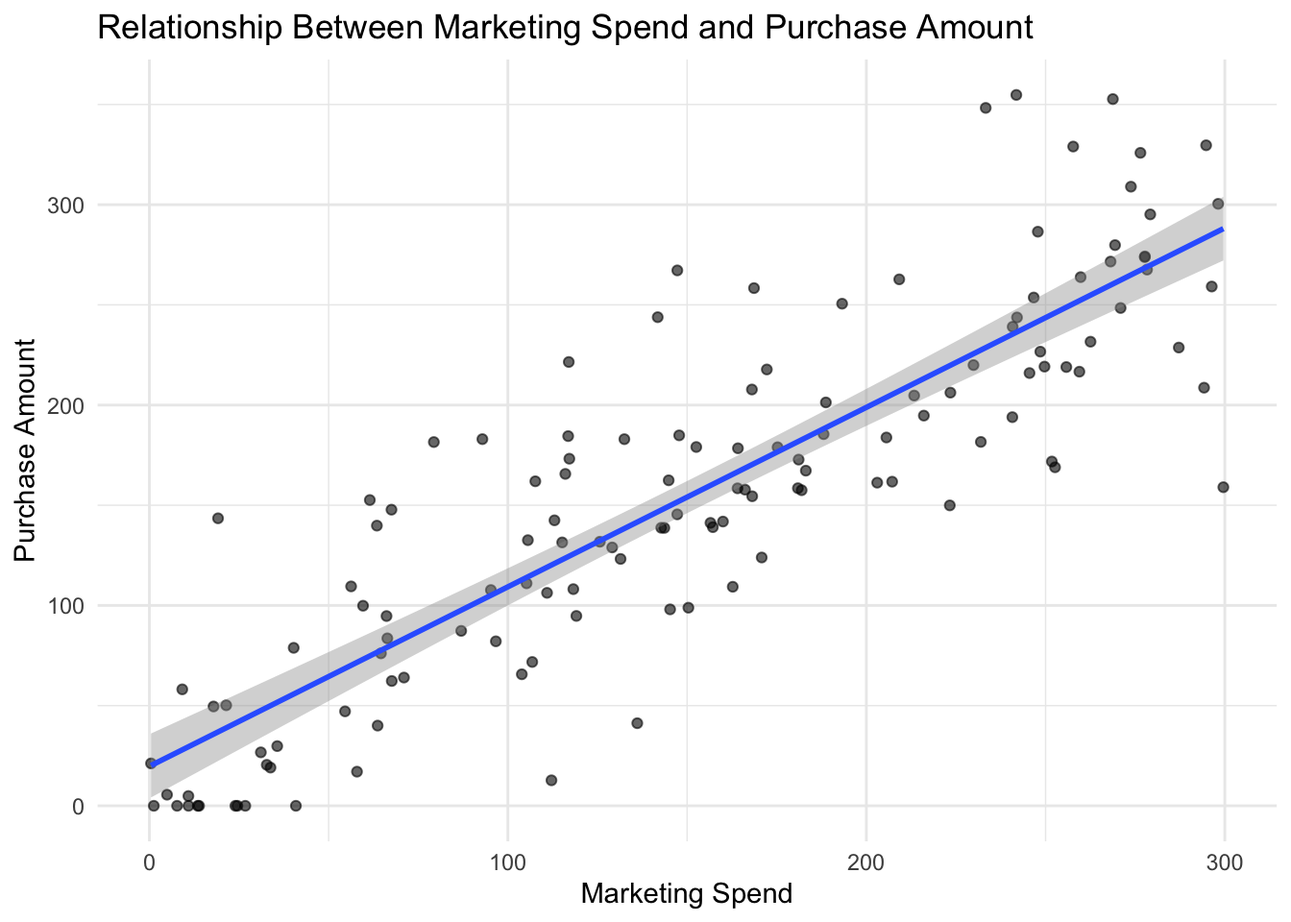
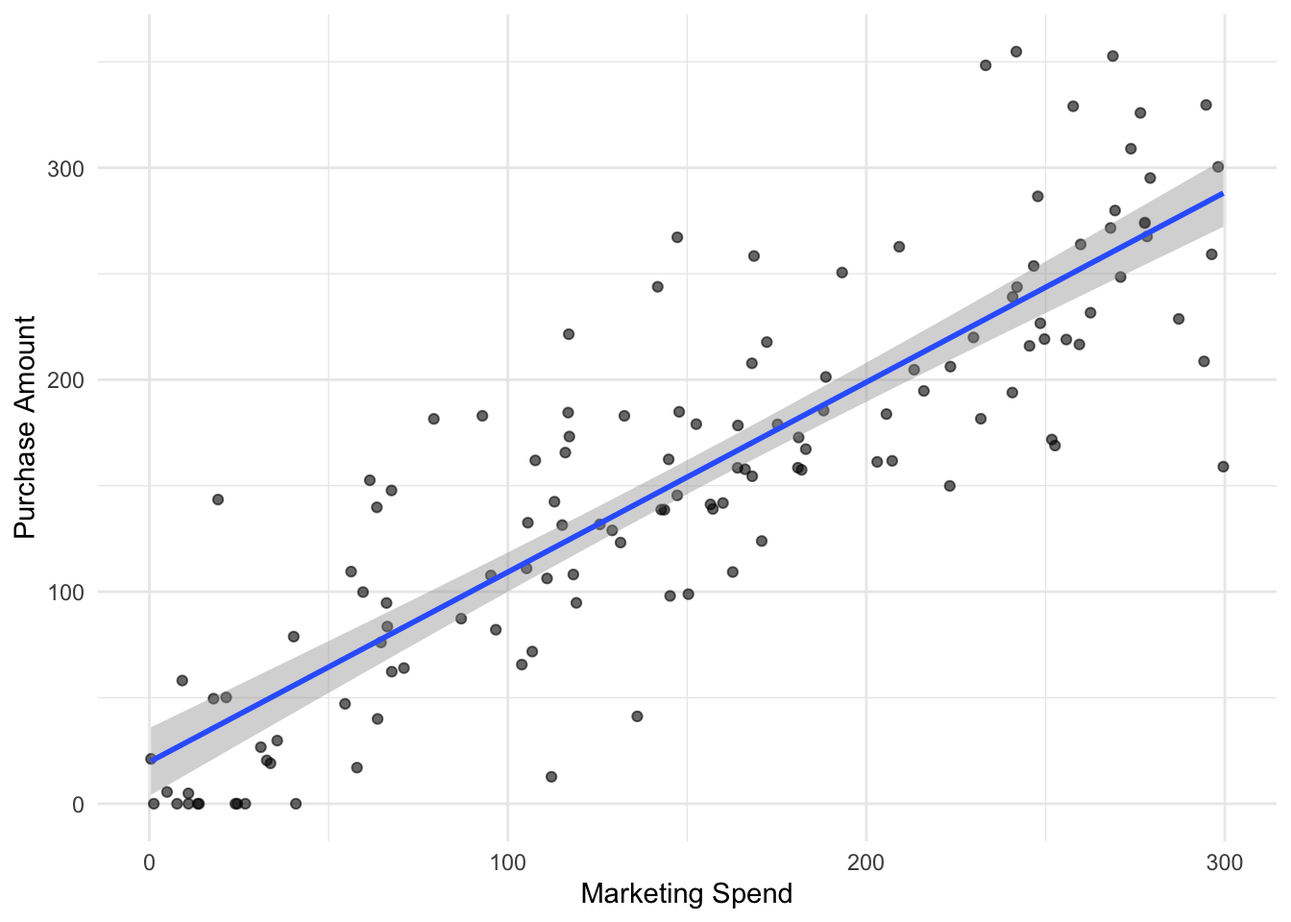
add dataset description and data summary

diff --git a/assignment1_report.html b/assignment1_report.html
@@ -7,7 +7,7 @@
 <meta name="viewport" content="width=device-width, initial-scale=1.0, user-scalable=yes">
 
 <meta name="author" content="Waranya Ratirotjanakul (36851256)">
-<meta name="dcterms.date" content="2026-03-29">
+<meta name="dcterms.date" content="2026-03-30">
 
 <title>Marketing Campaign Analysis</title>
 <style>
@@ -92,7 +92,7 @@ pre > code.sourceCode > span > a:first-child::before { text-decoration: underlin
   <li><a href="#dataset-description" id="toc-dataset-description" class="nav-link" data-scroll-target="#dataset-description">Dataset Description</a>
   <ul class="collapse">
   <li><a href="#data-detail" id="toc-data-detail" class="nav-link" data-scroll-target="#data-detail">Data detail</a></li>
-  <li><a href="#summary-table" id="toc-summary-table" class="nav-link" data-scroll-target="#summary-table">Summary table</a></li>
+  <li><a href="#data-summary" id="toc-data-summary" class="nav-link" data-scroll-target="#data-summary">Data summary</a></li>
   </ul></li>
   <li><a href="#results" id="toc-results" class="nav-link" data-scroll-target="#results">Results</a></li>
   </ul>
@@ -119,7 +119,7 @@ pre > code.sourceCode > span > a:first-child::before { text-decoration: underlin
     <div>
     <div class="quarto-title-meta-heading">Published</div>
     <div class="quarto-title-meta-contents">
-      <p class="date">March 29, 2026</p>
+      <p class="date">March 30, 2026</p>
     </div>
   </div>
   
@@ -141,7 +141,7 @@ pre > code.sourceCode > span > a:first-child::before { text-decoration: underlin
 </section>
 <section id="dataset-introduction" class="level1">
 <h1>Dataset Introduction</h1>
-<p>The <code>singup_date</code> variable was converted from character to date format using <code>parse_date_time()</code> function across the dataset. One additional missing value was detected. The <code>is.na()</code> function was used to inspect missing values and compare the raw and cleaned datasets. As a result, the new missing value was identified in row 145, where the original value was recorded as the character “N/A”. This indicates that the value represented a missing value but was previously stored as text.</p>
+<p>The marketing campaign dataset records customer interactions and purchasing behaviour during an online retail campaign. The dataset includes information on customer ID, customer registration date, marketing spending, number of visits, purchase amount, customer segment classification, and notes describing customer contact status (e.g., no response, contacted, and returned). Before analysis, the dataset was cleaned to ensure data accuracy and consistency. The <code>signup_date</code> variable was converted from character format to date-time format using <code>parse_date_time()</code> function to standardize date representation across the dataset. Missing values were inspected and verified to ensure data quality prior to analysis.</p>
 <div class="cell">
 <div class="code-copy-outer-scaffold"><div class="sourceCode cell-code" id="cb1"><pre class="sourceCode r code-with-copy"><code class="sourceCode r"><span id="cb1-1"><a href="#cb1-1" aria-hidden="true" tabindex="-1"></a><span class="co"># load dataset</span></span>
 <span id="cb1-2"><a href="#cb1-2" aria-hidden="true" tabindex="-1"></a>mkt_campaign_raw <span class="ot">&lt;-</span> <span class="fu">read_csv</span>(<span class="st">"data/36851256_Waranya Ratirotjanakul.csv"</span>)</span></code></pre></div><button title="Copy to Clipboard" class="code-copy-button"><i class="bi"></i></button></div>
@@ -168,7 +168,7 @@ $ purchase_amount &lt;dbl&gt; 204.74, 263.84, 107.68, 58.12, 71.78, 172.77, 219.
 $ segment         &lt;chr&gt; "SMB", "Consumer", "Consumer", "Consumer", "Consumer",…
 $ notes           &lt;chr&gt; NA, NA, NA, "contacted", NA, NA, "N/A", NA, NA, NA, NA…</code></pre>
 </div>
-<div class="code-copy-outer-scaffold"><div class="sourceCode cell-code" id="cb5"><pre class="sourceCode r code-with-copy"><code class="sourceCode r"><span id="cb5-1"><a href="#cb5-1" aria-hidden="true" tabindex="-1"></a><span class="co"># convert chr to date format</span></span>
+<div class="code-copy-outer-scaffold"><div class="sourceCode cell-code" id="cb5"><pre class="sourceCode r code-with-copy"><code class="sourceCode r"><span id="cb5-1"><a href="#cb5-1" aria-hidden="true" tabindex="-1"></a><span class="co"># convert character to date-time format</span></span>
 <span id="cb5-2"><a href="#cb5-2" aria-hidden="true" tabindex="-1"></a>mkt_campaign_clean <span class="ot">&lt;-</span> mkt_campaign_raw <span class="sc">|&gt;</span></span>
 <span id="cb5-3"><a href="#cb5-3" aria-hidden="true" tabindex="-1"></a>    <span class="fu">mutate</span>(<span class="at">signup_date =</span> <span class="fu">parse_date_time</span>(signup_date,</span>
 <span id="cb5-4"><a href="#cb5-4" aria-hidden="true" tabindex="-1"></a>    <span class="at">orders =</span> <span class="fu">c</span>(<span class="st">"ymd"</span>, <span class="st">"dmy"</span>, <span class="st">"mdy"</span>)</span>
@@ -180,9 +180,21 @@ $ notes           &lt;chr&gt; NA, NA, NA, "contacted", NA, NA, "N/A", NA, NA, NA
 Caused by warning:
 !  1 failed to parse.</code></pre>
 </div>
-<div class="code-copy-outer-scaffold"><div class="sourceCode cell-code" id="cb7"><pre class="sourceCode r code-with-copy"><code class="sourceCode r"><span id="cb7-1"><a href="#cb7-1" aria-hidden="true" tabindex="-1"></a><span class="co"># check missing value</span></span>
-<span id="cb7-2"><a href="#cb7-2" aria-hidden="true" tabindex="-1"></a>mkt_campaign_clean <span class="sc">|&gt;</span></span>
-<span id="cb7-3"><a href="#cb7-3" aria-hidden="true" tabindex="-1"></a>  <span class="fu">filter</span>(<span class="fu">is.na</span>(signup_date))</span></code></pre></div><button title="Copy to Clipboard" class="code-copy-button"><i class="bi"></i></button></div>
+<div class="code-copy-outer-scaffold"><div class="sourceCode cell-code" id="cb7"><pre class="sourceCode r code-with-copy"><code class="sourceCode r"><span id="cb7-1"><a href="#cb7-1" aria-hidden="true" tabindex="-1"></a><span class="fu">glimpse</span>(mkt_campaign_clean)</span></code></pre></div><button title="Copy to Clipboard" class="code-copy-button"><i class="bi"></i></button></div>
+<div class="cell-output cell-output-stdout">
+<pre><code>Rows: 150
+Columns: 7
+$ customer_id     &lt;chr&gt; "36851256_c0001", "36851256_c0002", "36851256_c0003", …
+$ signup_date     &lt;dttm&gt; 2025-03-16, 2025-02-20, 2025-01-30, 2025-09-24, 2025-…
+$ marketing_spend &lt;dbl&gt; 213.34, 259.78, 95.26, 9.17, 106.80, 181.11, 249.70, 3…
+$ visits          &lt;dbl&gt; 7, 10, 2, 2, 4, 6, 10, 2, 7, 10, 7, 8, 4, 3, 8, 1, 9, …
+$ purchase_amount &lt;dbl&gt; 204.74, 263.84, 107.68, 58.12, 71.78, 172.77, 219.18, …
+$ segment         &lt;chr&gt; "SMB", "Consumer", "Consumer", "Consumer", "Consumer",…
+$ notes           &lt;chr&gt; NA, NA, NA, "contacted", NA, NA, "N/A", NA, NA, NA, NA…</code></pre>
+</div>
+<div class="code-copy-outer-scaffold"><div class="sourceCode cell-code" id="cb9"><pre class="sourceCode r code-with-copy"><code class="sourceCode r"><span id="cb9-1"><a href="#cb9-1" aria-hidden="true" tabindex="-1"></a><span class="co"># check missing value</span></span>
+<span id="cb9-2"><a href="#cb9-2" aria-hidden="true" tabindex="-1"></a>mkt_campaign_clean <span class="sc">|&gt;</span></span>
+<span id="cb9-3"><a href="#cb9-3" aria-hidden="true" tabindex="-1"></a>  <span class="fu">filter</span>(<span class="fu">is.na</span>(signup_date))</span></code></pre></div><button title="Copy to Clipboard" class="code-copy-button"><i class="bi"></i></button></div>
 <div class="cell-output cell-output-stdout">
 <pre><code># A tibble: 9 × 7
   customer_id signup_date marketing_spend visits purchase_amount segment   
@@ -198,8 +210,8 @@ Caused by warning:
 9 36851256_c… NA                    136.       5            41.2 Consumer  
 # ℹ 1 more variable: notes &lt;chr&gt;</code></pre>
 </div>
-<div class="code-copy-outer-scaffold"><div class="sourceCode cell-code" id="cb9"><pre class="sourceCode r code-with-copy"><code class="sourceCode r"><span id="cb9-1"><a href="#cb9-1" aria-hidden="true" tabindex="-1"></a>mkt_campaign_raw <span class="sc">|&gt;</span></span>
-<span id="cb9-2"><a href="#cb9-2" aria-hidden="true" tabindex="-1"></a>  <span class="fu">filter</span>(<span class="fu">is.na</span>(signup_date))</span></code></pre></div><button title="Copy to Clipboard" class="code-copy-button"><i class="bi"></i></button></div>
+<div class="code-copy-outer-scaffold"><div class="sourceCode cell-code" id="cb11"><pre class="sourceCode r code-with-copy"><code class="sourceCode r"><span id="cb11-1"><a href="#cb11-1" aria-hidden="true" tabindex="-1"></a>mkt_campaign_raw <span class="sc">|&gt;</span></span>
+<span id="cb11-2"><a href="#cb11-2" aria-hidden="true" tabindex="-1"></a>  <span class="fu">filter</span>(<span class="fu">is.na</span>(signup_date))</span></code></pre></div><button title="Copy to Clipboard" class="code-copy-button"><i class="bi"></i></button></div>
 <div class="cell-output cell-output-stdout">
 <pre><code># A tibble: 8 × 7
   customer_id   signup_date marketing_spend visits purchase_amount segment notes
@@ -219,29 +231,90 @@ Caused by warning:
 <h1>Dataset Description</h1>
 <section id="data-detail" class="level2">
 <h2 class="anchored" data-anchor-id="data-detail">Data detail</h2>
-<p>The marketing campaign dataset contains 150 observations and 7 variables. The dataset includes both numberic and categorical variables. Numeric variables include <code>marketing_spnd</code> and <code>purchase_amount</code>,, while categoric variables include customer <code>segment</code>.</p>
+<p>The marketing campaign dataset contains 150 observations and 7 variables. The dataset includes numberic, categorical, character, and date-time variables. Numeric variables include <code>marketing_spend</code>, <code>visit</code>, and <code>purchase_amount</code>, while categoric variables includes customer <code>segment</code>. The variables <code>customer_id</code> and <code>notes</code> are stored as character data, and <code>signup_date</code> is recorded as a date-time variable.</p>
 </section>
-<section id="summary-table" class="level2">
-<h2 class="anchored" data-anchor-id="summary-table">Summary table</h2>
+<section id="data-summary" class="level2">
+<h2 class="anchored" data-anchor-id="data-summary">Data summary</h2>
+<p>The scatter plot shows a positive relationship between marketing spend and purchase amount, indicating that customers who receive higher marketing investment tend to generate higher purchase values. However, some variation is observed across customers, suggesting that additional factors may also influence purchasing behaviour.</p>
 <div class="cell">
-<div class="code-copy-outer-scaffold"><div class="sourceCode cell-code" id="cb11"><pre class="sourceCode r code-with-copy"><code class="sourceCode r"><span id="cb11-1"><a href="#cb11-1" aria-hidden="true" tabindex="-1"></a><span class="co"># group dataset by segment and summarise</span></span>
-<span id="cb11-2"><a href="#cb11-2" aria-hidden="true" tabindex="-1"></a>segment_summary <span class="ot">&lt;-</span> mkt_campaign_clean <span class="sc">|&gt;</span></span>
-<span id="cb11-3"><a href="#cb11-3" aria-hidden="true" tabindex="-1"></a>    <span class="fu">group_by</span>(segment) <span class="sc">|&gt;</span></span>
-<span id="cb11-4"><a href="#cb11-4" aria-hidden="true" tabindex="-1"></a>    <span class="fu">summarise</span>(</span>
-<span id="cb11-5"><a href="#cb11-5" aria-hidden="true" tabindex="-1"></a>        <span class="at">avg_marketing_spend =</span> <span class="fu">mean</span>(marketing_spend, <span class="at">na.rm =</span> <span class="cn">TRUE</span>),</span>
-<span id="cb11-6"><a href="#cb11-6" aria-hidden="true" tabindex="-1"></a>        <span class="at">avg_visits =</span> <span class="fu">mean</span>(visits, <span class="at">na.rm =</span> <span class="cn">TRUE</span>),</span>
-<span id="cb11-7"><a href="#cb11-7" aria-hidden="true" tabindex="-1"></a>        <span class="at">avg_purchase_amount =</span> <span class="fu">mean</span>(purchase_amount, <span class="at">na.rm =</span> <span class="cn">TRUE</span>),</span>
-<span id="cb11-8"><a href="#cb11-8" aria-hidden="true" tabindex="-1"></a>        <span class="at">total_customers =</span> <span class="fu">n</span>()</span>
-<span id="cb11-9"><a href="#cb11-9" aria-hidden="true" tabindex="-1"></a>    )</span>
-<span id="cb11-10"><a href="#cb11-10" aria-hidden="true" tabindex="-1"></a></span>
-<span id="cb11-11"><a href="#cb11-11" aria-hidden="true" tabindex="-1"></a><span class="co"># display the table</span></span>
-<span id="cb11-12"><a href="#cb11-12" aria-hidden="true" tabindex="-1"></a>segment_summary <span class="sc">|&gt;</span></span>
-<span id="cb11-13"><a href="#cb11-13" aria-hidden="true" tabindex="-1"></a>    knitr<span class="sc">::</span><span class="fu">kable</span>(</span>
-<span id="cb11-14"><a href="#cb11-14" aria-hidden="true" tabindex="-1"></a>        <span class="at">caption =</span> <span class="st">"Figure1: Summary of Marketing Spend, Visits, and Purchase Amount by Customer Segment"</span></span>
-<span id="cb11-15"><a href="#cb11-15" aria-hidden="true" tabindex="-1"></a>    )</span></code></pre></div><button title="Copy to Clipboard" class="code-copy-button"><i class="bi"></i></button></div>
+<div class="code-copy-outer-scaffold"><div class="sourceCode cell-code" id="cb13"><pre class="sourceCode r code-with-copy"><code class="sourceCode r"><span id="cb13-1"><a href="#cb13-1" aria-hidden="true" tabindex="-1"></a><span class="co"># create a summary plot marketing spend vs purchase amount</span></span>
+<span id="cb13-2"><a href="#cb13-2" aria-hidden="true" tabindex="-1"></a><span class="fu">ggplot</span>(mkt_campaign_clean,</span>
+<span id="cb13-3"><a href="#cb13-3" aria-hidden="true" tabindex="-1"></a>       <span class="fu">aes</span>(<span class="at">x =</span> marketing_spend,</span>
+<span id="cb13-4"><a href="#cb13-4" aria-hidden="true" tabindex="-1"></a>           <span class="at">y =</span> purchase_amount)) <span class="sc">+</span></span>
+<span id="cb13-5"><a href="#cb13-5" aria-hidden="true" tabindex="-1"></a>  <span class="fu">geom_point</span>(<span class="at">alpha =</span> <span class="fl">0.6</span>) <span class="sc">+</span></span>
+<span id="cb13-6"><a href="#cb13-6" aria-hidden="true" tabindex="-1"></a>  <span class="fu">geom_smooth</span>(<span class="at">method =</span> <span class="st">"lm"</span>) <span class="sc">+</span></span>
+<span id="cb13-7"><a href="#cb13-7" aria-hidden="true" tabindex="-1"></a>  <span class="fu">labs</span>(</span>
+<span id="cb13-8"><a href="#cb13-8" aria-hidden="true" tabindex="-1"></a>    <span class="at">x =</span> <span class="st">"Marketing Spend"</span>,</span>
+<span id="cb13-9"><a href="#cb13-9" aria-hidden="true" tabindex="-1"></a>    <span class="at">y =</span> <span class="st">"Purchase Amount"</span></span>
+<span id="cb13-10"><a href="#cb13-10" aria-hidden="true" tabindex="-1"></a>  ) <span class="sc">+</span></span>
+<span id="cb13-11"><a href="#cb13-11" aria-hidden="true" tabindex="-1"></a>  <span class="fu">theme_minimal</span>()</span></code></pre></div><button title="Copy to Clipboard" class="code-copy-button"><i class="bi"></i></button></div>
+<div class="cell-output cell-output-stderr">
+<pre><code>`geom_smooth()` using formula = 'y ~ x'</code></pre>
+</div>
+<div class="cell-output cell-output-stderr">
+<pre><code>Warning: Removed 18 rows containing non-finite outside the scale range
+(`stat_smooth()`).</code></pre>
+</div>
+<div class="cell-output cell-output-stderr">
+<pre><code>Warning: Removed 18 rows containing missing values or values outside the scale range
+(`geom_point()`).</code></pre>
+</div>
+<div class="cell-output-display">
+<div class="quarto-figure quarto-figure-center">
+<figure class="figure">
+<p><img src="assignment1_report_files/figure-html/unnamed-chunk-2-1.png" class="img-fluid figure-img" width="672"></p>
+<figcaption>Relationship Between Marketing Spend and Purchase Amount</figcaption>
+</figure>
+</div>
+</div>
+<div class="code-copy-outer-scaffold"><div class="sourceCode cell-code" id="cb17"><pre class="sourceCode r code-with-copy"><code class="sourceCode r"><span id="cb17-1"><a href="#cb17-1" aria-hidden="true" tabindex="-1"></a><span class="co"># run linear regression model</span></span>
+<span id="cb17-2"><a href="#cb17-2" aria-hidden="true" tabindex="-1"></a>model_perf <span class="ot">&lt;-</span> <span class="fu">lm</span>(purchase_amount <span class="sc">~</span> marketing_spend,</span>
+<span id="cb17-3"><a href="#cb17-3" aria-hidden="true" tabindex="-1"></a>                <span class="at">data =</span> mkt_campaign_clean)</span>
+<span id="cb17-4"><a href="#cb17-4" aria-hidden="true" tabindex="-1"></a></span>
+<span id="cb17-5"><a href="#cb17-5" aria-hidden="true" tabindex="-1"></a><span class="co"># evaluate model</span></span>
+<span id="cb17-6"><a href="#cb17-6" aria-hidden="true" tabindex="-1"></a><span class="fu">summary</span>(model_perf)</span></code></pre></div><button title="Copy to Clipboard" class="code-copy-button"><i class="bi"></i></button></div>
+<div class="cell-output cell-output-stdout">
+<pre><code>
+Call:
+lm(formula = purchase_amount ~ marketing_spend, data = mkt_campaign_clean)
+
+Residuals:
+     Min       1Q   Median       3Q      Max 
+-129.031  -26.142   -8.535   22.801  119.639 
+
+Coefficients:
+                Estimate Std. Error t value Pr(&gt;|t|)    
+(Intercept)     19.71804    8.08420   2.439   0.0161 *  
+marketing_spend  0.89560    0.04649  19.264   &lt;2e-16 ***
+---
+Signif. codes:  0 '***' 0.001 '**' 0.01 '*' 0.05 '.' 0.1 ' ' 1
+
+Residual standard error: 46.59 on 130 degrees of freedom
+  (18 observations deleted due to missingness)
+Multiple R-squared:  0.7406,    Adjusted R-squared:  0.7386 
+F-statistic: 371.1 on 1 and 130 DF,  p-value: &lt; 2.2e-16</code></pre>
+</div>
+</div>
+<p>The table shows differences in average purchasing behaviour across customer segments. Consumer customers have the highest average purchase amount, while SMB customers show relatively lower spending levels. These differences provide context for understanding how marketing performance may vary across customer groups.</p>
+<div class="cell">
+<div class="code-copy-outer-scaffold"><div class="sourceCode cell-code" id="cb19"><pre class="sourceCode r code-with-copy"><code class="sourceCode r"><span id="cb19-1"><a href="#cb19-1" aria-hidden="true" tabindex="-1"></a><span class="co"># summary by segment</span></span>
+<span id="cb19-2"><a href="#cb19-2" aria-hidden="true" tabindex="-1"></a>segment_summary <span class="ot">&lt;-</span> mkt_campaign_clean <span class="sc">|&gt;</span></span>
+<span id="cb19-3"><a href="#cb19-3" aria-hidden="true" tabindex="-1"></a>    <span class="fu">group_by</span>(segment) <span class="sc">|&gt;</span></span>
+<span id="cb19-4"><a href="#cb19-4" aria-hidden="true" tabindex="-1"></a>    <span class="fu">summarise</span>(</span>
+<span id="cb19-5"><a href="#cb19-5" aria-hidden="true" tabindex="-1"></a>        <span class="at">avg_marketing_spend =</span> <span class="fu">round</span>(<span class="fu">mean</span>(marketing_spend, <span class="at">na.rm =</span> <span class="cn">TRUE</span>), <span class="dv">2</span>),</span>
+<span id="cb19-6"><a href="#cb19-6" aria-hidden="true" tabindex="-1"></a>        <span class="at">avg_visits =</span> <span class="fu">round</span>(<span class="fu">mean</span>(visits, <span class="at">na.rm =</span> <span class="cn">TRUE</span>), <span class="dv">2</span>),</span>
+<span id="cb19-7"><a href="#cb19-7" aria-hidden="true" tabindex="-1"></a>        <span class="at">avg_purchase_amount =</span> <span class="fu">round</span>(<span class="fu">mean</span>(purchase_amount, <span class="at">na.rm =</span> <span class="cn">TRUE</span>), <span class="dv">2</span>),</span>
+<span id="cb19-8"><a href="#cb19-8" aria-hidden="true" tabindex="-1"></a>        <span class="at">total_customers =</span> <span class="fu">n</span>()</span>
+<span id="cb19-9"><a href="#cb19-9" aria-hidden="true" tabindex="-1"></a>    )</span>
+<span id="cb19-10"><a href="#cb19-10" aria-hidden="true" tabindex="-1"></a></span>
+<span id="cb19-11"><a href="#cb19-11" aria-hidden="true" tabindex="-1"></a><span class="co"># display the table</span></span>
+<span id="cb19-12"><a href="#cb19-12" aria-hidden="true" tabindex="-1"></a>segment_summary <span class="sc">|&gt;</span></span>
+<span id="cb19-13"><a href="#cb19-13" aria-hidden="true" tabindex="-1"></a>    knitr<span class="sc">::</span><span class="fu">kable</span>(</span>
+<span id="cb19-14"><a href="#cb19-14" aria-hidden="true" tabindex="-1"></a>        <span class="at">caption =</span> <span class="st">"Table1: Summary of Marketing Spend, Visits, and Purchase Amount by Customer Segment"</span></span>
+<span id="cb19-15"><a href="#cb19-15" aria-hidden="true" tabindex="-1"></a>    )</span></code></pre></div><button title="Copy to Clipboard" class="code-copy-button"><i class="bi"></i></button></div>
 <div class="cell-output-display">
 <table class="caption-top table table-sm table-striped small">
-<caption>Figure1: Summary of Marketing Spend, Visits, and Purchase Amount by Customer Segment</caption>
+<caption>Table1: Summary of Marketing Spend, Visits, and Purchase Amount by Customer Segment</caption>
 <colgroup>
 <col style="width: 14%">
 <col style="width: 25%">
@@ -261,69 +334,41 @@ Caused by warning:
 <tbody>
 <tr class="odd">
 <td style="text-align: left;">Consumer</td>
-<td style="text-align: right;">150.7118</td>
-<td style="text-align: right;">5.459184</td>
-<td style="text-align: right;">169.8379</td>
+<td style="text-align: right;">150.71</td>
+<td style="text-align: right;">5.46</td>
+<td style="text-align: right;">169.84</td>
 <td style="text-align: right;">98</td>
 </tr>
 <tr class="even">
 <td style="text-align: left;">Enterprise</td>
-<td style="text-align: right;">153.5454</td>
-<td style="text-align: right;">5.000000</td>
-<td style="text-align: right;">140.9462</td>
+<td style="text-align: right;">153.55</td>
+<td style="text-align: right;">5.00</td>
+<td style="text-align: right;">140.95</td>
 <td style="text-align: right;">13</td>
 </tr>
 <tr class="odd">
 <td style="text-align: left;">SMB</td>
-<td style="text-align: right;">140.5595</td>
-<td style="text-align: right;">5.230769</td>
-<td style="text-align: right;">122.5049</td>
+<td style="text-align: right;">140.56</td>
+<td style="text-align: right;">5.23</td>
+<td style="text-align: right;">122.50</td>
 <td style="text-align: right;">39</td>
 </tr>
 </tbody>
 </table>
 </div>
-<div class="code-copy-outer-scaffold"><div class="sourceCode cell-code" id="cb12"><pre class="sourceCode r code-with-copy"><code class="sourceCode r"><span id="cb12-1"><a href="#cb12-1" aria-hidden="true" tabindex="-1"></a><span class="co"># create a summary plot marketing spend vs purchase amount</span></span>
-<span id="cb12-2"><a href="#cb12-2" aria-hidden="true" tabindex="-1"></a><span class="fu">ggplot</span>(mkt_campaign_clean,</span>
-<span id="cb12-3"><a href="#cb12-3" aria-hidden="true" tabindex="-1"></a>       <span class="fu">aes</span>(<span class="at">x =</span> marketing_spend,</span>
-<span id="cb12-4"><a href="#cb12-4" aria-hidden="true" tabindex="-1"></a>           <span class="at">y =</span> purchase_amount)) <span class="sc">+</span></span>
-<span id="cb12-5"><a href="#cb12-5" aria-hidden="true" tabindex="-1"></a>  <span class="fu">geom_point</span>(<span class="at">alpha =</span> <span class="fl">0.6</span>) <span class="sc">+</span></span>
-<span id="cb12-6"><a href="#cb12-6" aria-hidden="true" tabindex="-1"></a>  <span class="fu">geom_smooth</span>(<span class="at">method =</span> <span class="st">"lm"</span>) <span class="sc">+</span></span>
-<span id="cb12-7"><a href="#cb12-7" aria-hidden="true" tabindex="-1"></a>  <span class="fu">labs</span>(</span>
-<span id="cb12-8"><a href="#cb12-8" aria-hidden="true" tabindex="-1"></a>    <span class="at">title =</span> <span class="st">"Relationship Between Marketing Spend and Purchase Amount"</span>,</span>
-<span id="cb12-9"><a href="#cb12-9" aria-hidden="true" tabindex="-1"></a>    <span class="at">x =</span> <span class="st">"Marketing Spend"</span>,</span>
-<span id="cb12-10"><a href="#cb12-10" aria-hidden="true" tabindex="-1"></a>    <span class="at">y =</span> <span class="st">"Purchase Amount"</span></span>
-<span id="cb12-11"><a href="#cb12-11" aria-hidden="true" tabindex="-1"></a>  ) <span class="sc">+</span></span>
-<span id="cb12-12"><a href="#cb12-12" aria-hidden="true" tabindex="-1"></a>  <span class="fu">theme_minimal</span>()</span></code></pre></div><button title="Copy to Clipboard" class="code-copy-button"><i class="bi"></i></button></div>
-<div class="cell-output cell-output-stderr">
-<pre><code>`geom_smooth()` using formula = 'y ~ x'</code></pre>
 </div>
-<div class="cell-output cell-output-stderr">
-<pre><code>Warning: Removed 18 rows containing non-finite outside the scale range
-(`stat_smooth()`).</code></pre>
-</div>
-<div class="cell-output cell-output-stderr">
-<pre><code>Warning: Removed 18 rows containing missing values or values outside the scale range
-(`geom_point()`).</code></pre>
-</div>
-<div class="cell-output-display">
-<div>
-<figure class="figure">
-<p><img src="assignment1_report_files/figure-html/unnamed-chunk-2-1.png" class="img-fluid figure-img" width="672"></p>
-</figure>
-</div>
-</div>
-<div class="code-copy-outer-scaffold"><div class="sourceCode cell-code" id="cb16"><pre class="sourceCode r code-with-copy"><code class="sourceCode r"><span id="cb16-1"><a href="#cb16-1" aria-hidden="true" tabindex="-1"></a><span class="co"># create a summary plot</span></span>
-<span id="cb16-2"><a href="#cb16-2" aria-hidden="true" tabindex="-1"></a><span class="fu">ggplot</span>(mkt_campaign_clean,</span>
-<span id="cb16-3"><a href="#cb16-3" aria-hidden="true" tabindex="-1"></a>       <span class="fu">aes</span>(<span class="at">x =</span> segment,</span>
-<span id="cb16-4"><a href="#cb16-4" aria-hidden="true" tabindex="-1"></a>           <span class="at">y =</span> purchase_amount)) <span class="sc">+</span></span>
-<span id="cb16-5"><a href="#cb16-5" aria-hidden="true" tabindex="-1"></a>  <span class="fu">geom_boxplot</span>() <span class="sc">+</span></span>
-<span id="cb16-6"><a href="#cb16-6" aria-hidden="true" tabindex="-1"></a>  <span class="fu">labs</span>(</span>
-<span id="cb16-7"><a href="#cb16-7" aria-hidden="true" tabindex="-1"></a>    <span class="at">title =</span> <span class="st">"Distribution of Purchase Amount by Customer Segment"</span>,</span>
-<span id="cb16-8"><a href="#cb16-8" aria-hidden="true" tabindex="-1"></a>    <span class="at">x =</span> <span class="st">"Customer Segment"</span>,</span>
-<span id="cb16-9"><a href="#cb16-9" aria-hidden="true" tabindex="-1"></a>    <span class="at">y =</span> <span class="st">"Purchase Amount"</span></span>
-<span id="cb16-10"><a href="#cb16-10" aria-hidden="true" tabindex="-1"></a>  ) <span class="sc">+</span></span>
-<span id="cb16-11"><a href="#cb16-11" aria-hidden="true" tabindex="-1"></a>  <span class="fu">theme_minimal</span>()</span></code></pre></div><button title="Copy to Clipboard" class="code-copy-button"><i class="bi"></i></button></div>
+<div class="cell">
+<div class="code-copy-outer-scaffold"><div class="sourceCode cell-code" id="cb20"><pre class="sourceCode r code-with-copy"><code class="sourceCode r"><span id="cb20-1"><a href="#cb20-1" aria-hidden="true" tabindex="-1"></a><span class="co"># create a summary plot</span></span>
+<span id="cb20-2"><a href="#cb20-2" aria-hidden="true" tabindex="-1"></a><span class="fu">ggplot</span>(mkt_campaign_clean,</span>
+<span id="cb20-3"><a href="#cb20-3" aria-hidden="true" tabindex="-1"></a>       <span class="fu">aes</span>(<span class="at">x =</span> segment,</span>
+<span id="cb20-4"><a href="#cb20-4" aria-hidden="true" tabindex="-1"></a>           <span class="at">y =</span> purchase_amount)) <span class="sc">+</span></span>
+<span id="cb20-5"><a href="#cb20-5" aria-hidden="true" tabindex="-1"></a>  <span class="fu">geom_boxplot</span>() <span class="sc">+</span></span>
+<span id="cb20-6"><a href="#cb20-6" aria-hidden="true" tabindex="-1"></a>  <span class="fu">labs</span>(</span>
+<span id="cb20-7"><a href="#cb20-7" aria-hidden="true" tabindex="-1"></a>    <span class="at">title =</span> <span class="st">"Distribution of Purchase Amount by Customer Segment"</span>,</span>
+<span id="cb20-8"><a href="#cb20-8" aria-hidden="true" tabindex="-1"></a>    <span class="at">x =</span> <span class="st">"Customer Segment"</span>,</span>
+<span id="cb20-9"><a href="#cb20-9" aria-hidden="true" tabindex="-1"></a>    <span class="at">y =</span> <span class="st">"Purchase Amount"</span></span>
+<span id="cb20-10"><a href="#cb20-10" aria-hidden="true" tabindex="-1"></a>  ) <span class="sc">+</span></span>
+<span id="cb20-11"><a href="#cb20-11" aria-hidden="true" tabindex="-1"></a>  <span class="fu">theme_minimal</span>()</span></code></pre></div><button title="Copy to Clipboard" class="code-copy-button"><i class="bi"></i></button></div>
 <div class="cell-output cell-output-stderr">
 <pre><code>Warning: Removed 18 rows containing non-finite outside the scale range
 (`stat_boxplot()`).</code></pre>
@@ -331,7 +376,7 @@ Caused by warning:
 <div class="cell-output-display">
 <div>
 <figure class="figure">
-<p><img src="assignment1_report_files/figure-html/unnamed-chunk-2-2.png" class="img-fluid figure-img" width="672"></p>
+<p><img src="assignment1_report_files/figure-html/unnamed-chunk-4-1.png" class="img-fluid figure-img" width="672"></p>
 </figure>
 </div>
 </div>
@@ -340,6 +385,7 @@ Caused by warning:
 </section>
 <section id="results" class="level1">
 <h1>Results</h1>
+<p>A simple linear regression model was used to examine the relationship between marketing spend and purchase amount. The results indicate a positive and statistically significant relationship between the two variables (β = 0.896, p &lt; 0.001). This suggests that higher marketing spending is associated with increased customer purchase amounts. The model explains approximately 74.1% of the variation in purchase amount (R² = 0.741), indicating a strong relationship between marketing investment and purchasing behaviour. A total of 18 observations were excluded from the analysis due to missing values in the dataset.</p>
 </section>
 
 </main>

diff --git a/assignment1_report_files/libs/quarto-html/zenscroll-min.js b/assignment1_report_files/libs/quarto-html/zenscroll-min.js
@@ -1,0 +1,1 @@
+!function(t,e){"function"==typeof define&&define.amd?define([],e()):"object"==typeof module&&module.exports?module.exports=e():function n(){document&&document.body?t.zenscroll=e():setTimeout(n,9)}()}(this,function(){"use strict";var t=function(t){return t&&"getComputedStyle"in window&&"smooth"===window.getComputedStyle(t)["scroll-behavior"]};if("undefined"==typeof window||!("document"in window))return{};var e=function(e,n,o){n=n||999,o||0===o||(o=9);var i,r=function(t){i=t},u=function(){clearTimeout(i),r(0)},c=function(t){return Math.max(0,e.getTopOf(t)-o)},a=function(o,i,c){if(u(),0===i||i&&i<0||t(e.body))e.toY(o),c&&c();else{var a=e.getY(),f=Math.max(0,o)-a,s=(new Date).getTime();i=i||Math.min(Math.abs(f),n),function t(){r(setTimeout(function(){var n=Math.min(1,((new Date).getTime()-s)/i),o=Math.max(0,Math.floor(a+f*(n<.5?2*n*n:n*(4-2*n)-1)));e.toY(o),n<1&&e.getHeight()+o<e.body.scrollHeight?t():(setTimeout(u,99),c&&c())},9))}()}},f=function(t,e,n){a(c(t),e,n)},s=function(t,n,i){var r=t.getBoundingClientRect().height,u=e.getTopOf(t)+r,s=e.getHeight(),l=e.getY(),d=l+s;c(t)<l||r+o>s?f(t,n,i):u+o>d?a(u-s+o,n,i):i&&i()},l=function(t,n,o,i){a(Math.max(0,e.getTopOf(t)-e.getHeight()/2+(o||t.getBoundingClientRect().height/2)),n,i)};return{setup:function(t,e){return(0===t||t)&&(n=t),(0===e||e)&&(o=e),{defaultDuration:n,edgeOffset:o}},to:f,toY:a,intoView:s,center:l,stop:u,moving:function(){return!!i},getY:e.getY,getTopOf:e.getTopOf}},n=document.documentElement,o=function(){return window.scrollY||n.scrollTop},i=e({body:document.scrollingElement||document.body,toY:function(t){window.scrollTo(0,t)},getY:o,getHeight:function(){return window.innerHeight||n.clientHeight},getTopOf:function(t){return t.getBoundingClientRect().top+o()-n.offsetTop}});if(i.createScroller=function(t,o,i){return e({body:t,toY:function(e){t.scrollTop=e},getY:function(){return t.scrollTop},getHeight:function(){return Math.min(t.clientHeight,window.innerHeight||n.clientHeight)},getTopOf:function(t){return t.offsetTop}},o,i)},"addEventListener"in window&&!window.noZensmooth&&!t(document.body)){var r="history"in window&&"pushState"in history,u=r&&"scrollRestoration"in history;u&&(history.scrollRestoration="auto"),window.addEventListener("load",function(){u&&(setTimeout(function(){history.scrollRestoration="manual"},9),window.addEventListener("popstate",function(t){t.state&&"zenscrollY"in t.state&&i.toY(t.state.zenscrollY)},!1)),window.location.hash&&setTimeout(function(){var t=i.setup().edgeOffset;if(t){var e=document.getElementById(window.location.href.split("#")[1]);if(e){var n=Math.max(0,i.getTopOf(e)-t),o=i.getY()-n;0<=o&&o<9&&window.scrollTo(0,n)}}},9)},!1);var c=new RegExp("(^|\\s)noZensmooth(\\s|$)");window.addEventListener("click",function(t){for(var e=t.target;e&&"A"!==e.tagName;)e=e.parentNode;if(!(!e||1!==t.which||t.shiftKey||t.metaKey||t.ctrlKey||t.altKey)){if(u){var n=history.state&&"object"==typeof history.state?history.state:{};n.zenscrollY=i.getY();try{history.replaceState(n,"")}catch(t){}}var o=e.getAttribute("href")||"";if(0===o.indexOf("#")&&!c.test(e.className)){var a=0,f=document.getElementById(o.substring(1));if("#"!==o){if(!f)return;a=i.getTopOf(f)}t.preventDefault();var s=function(){window.location=o},l=i.setup().edgeOffset;l&&(a=Math.max(0,a-l),r&&(s=function(){history.pushState({},"",o)})),i.toY(a,null,s)}}},!1)}return i});
